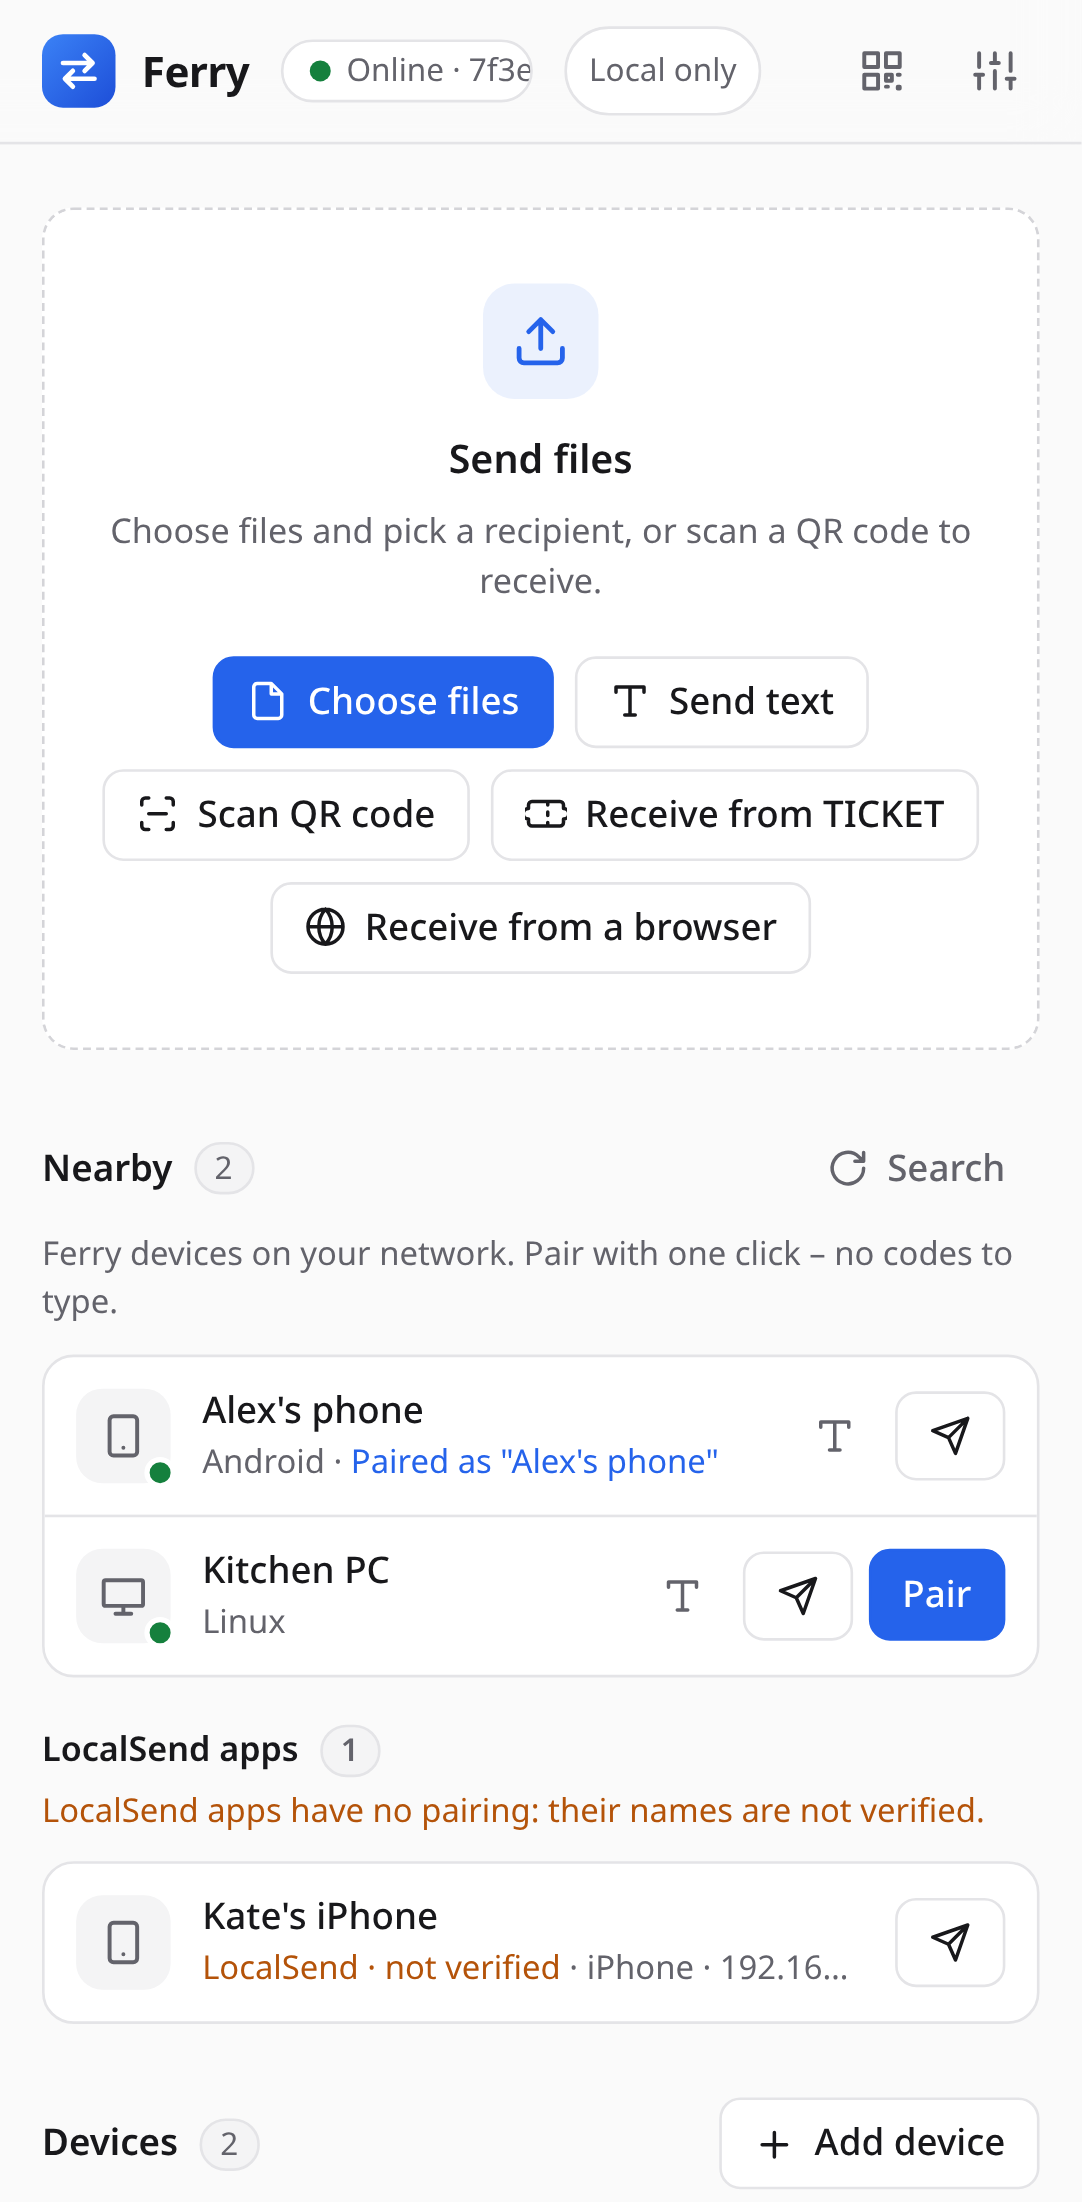
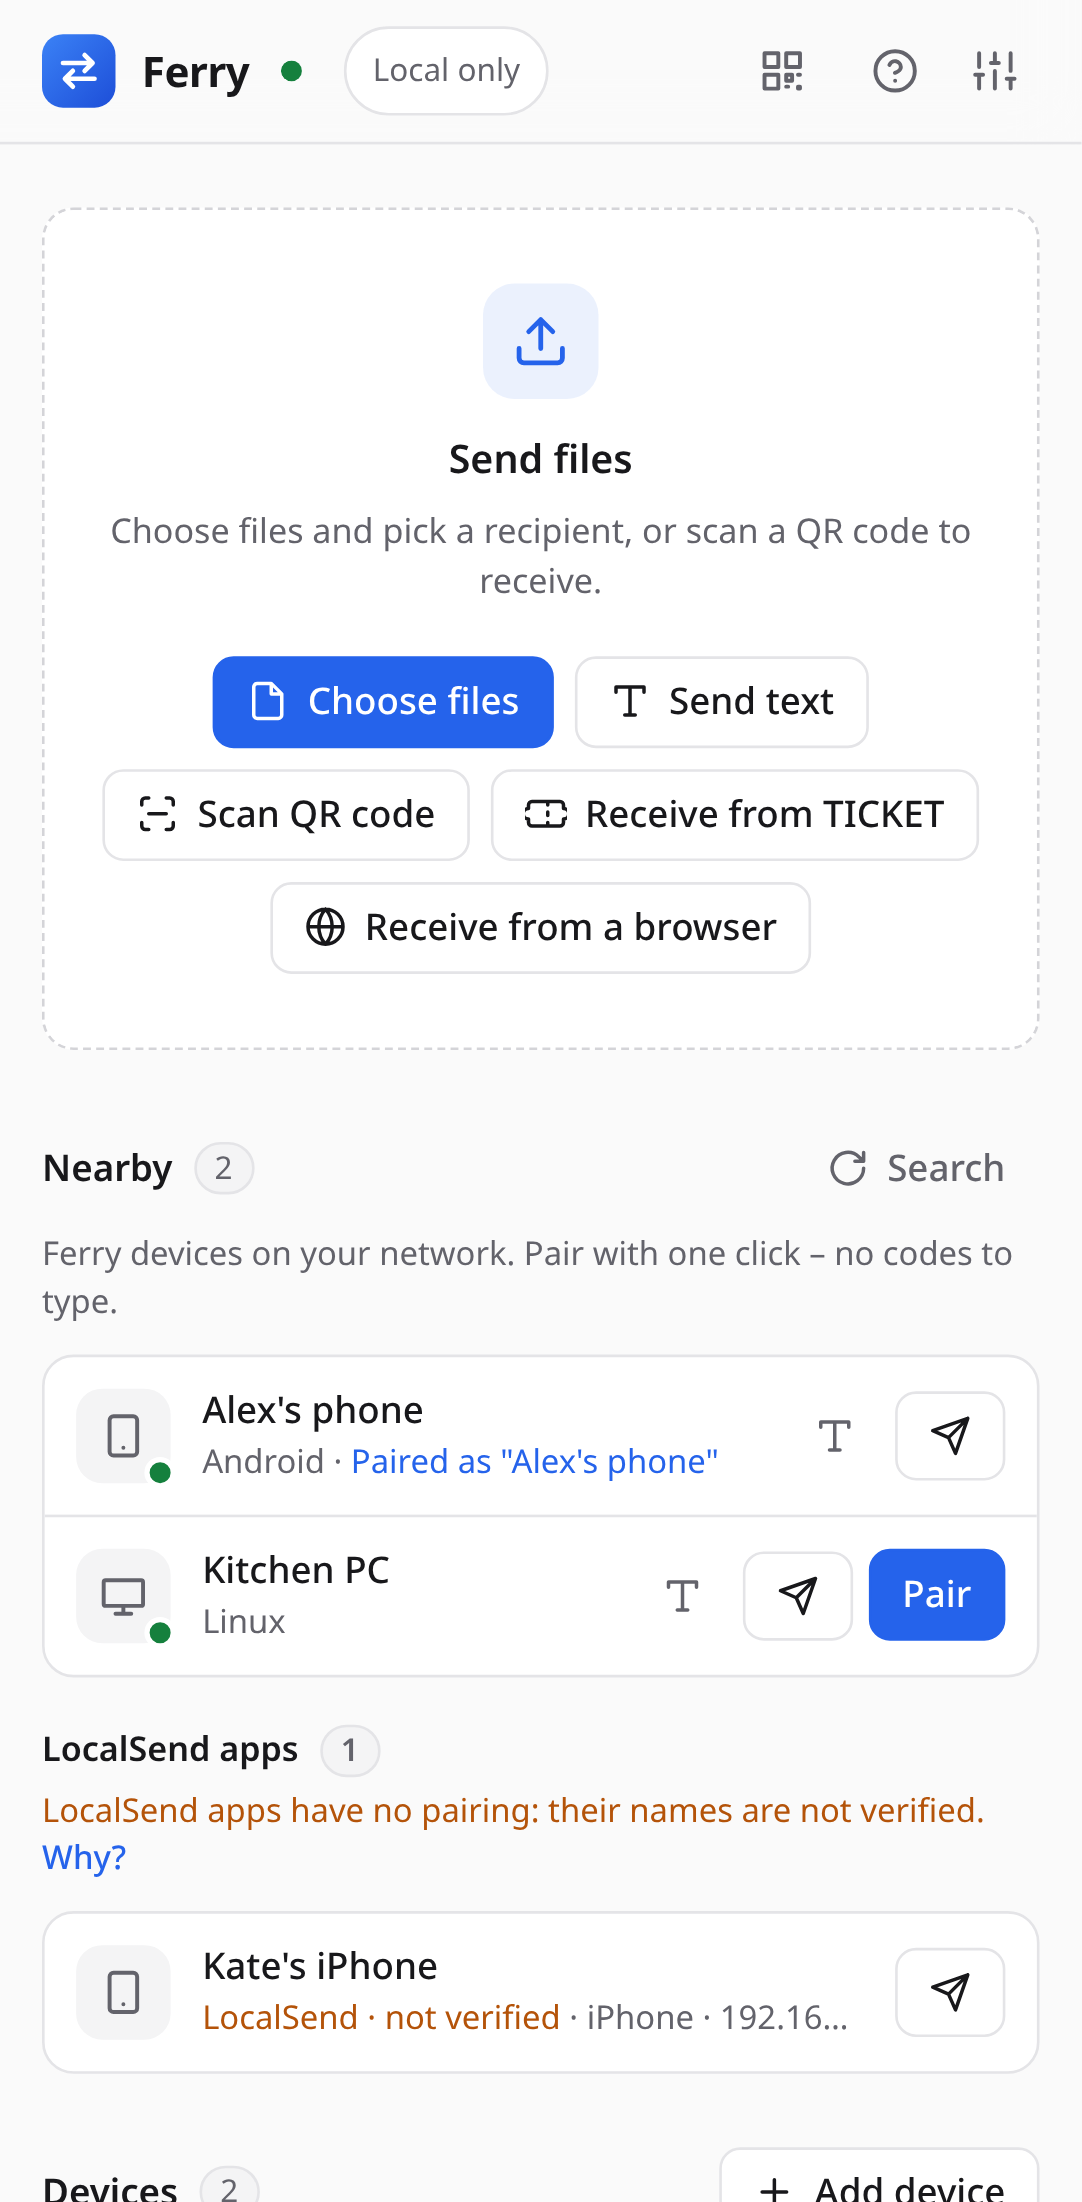
feat(ui): simplify node status display and improve accessibility for mobile

diff --git a/src-tauri/ui/index.html b/src-tauri/ui/index.html
@@ -112,8 +112,7 @@
       <div class="list" id="nearby"></div>
       <div class="subsection" id="nearby-localsend-block" hidden>
         <h3 class="subhead"><span data-i18n="localsend_apps"></span><span class="count" id="localsend-count">0</span></h3>
-        <p class="hint caution" data-i18n="localsend_unverified_short"></p>
-        <button class="link hint-help" data-help="apple" data-i18n="help_why"></button>
+        <p class="hint caution"><span data-i18n="localsend_unverified_short"></span> <button class="link inline" data-help="apple" data-i18n="help_why"></button></p>
         <div class="list" id="nearby-localsend"></div>
       </div>
       <p class="hint warn" id="nearby-hint" hidden></p>
@@ -180,8 +179,7 @@
       <button class="primary" id="btn-send-selected" hidden></button>
       <div class="recipient-group" id="localsend-section" hidden>
         <div class="label" data-i18n="localsend_apps"></div>
-        <p class="compat-warning" data-i18n="localsend_unverified"></p>
-        <button class="link" data-help="apple" data-i18n="help_why"></button>
+        <p class="compat-warning"><span data-i18n="localsend_unverified"></span> <button class="link inline" data-help="apple" data-i18n="help_why"></button></p>
         <div class="recipients" id="localsend-recipients"></div>
         <button class="ghost" id="btn-localsend-scan"><svg class="i sm"><use href="#i-refresh"/></svg><span data-i18n="localsend_search"></span></button>
       </div>
@@ -359,8 +357,7 @@
   <div class="modal">
     <div class="modal-head"><h3 id="pairing-title"></h3></div>
     <div class="modal-body">
-      <p class="muted small" data-i18n="pairing_confirm_hint"></p>
-      <button class="link" data-help="pair" data-i18n="help_why_code"></button>
+      <p class="muted small"><span data-i18n="pairing_confirm_hint"></span> <button class="link inline" data-help="pair" data-i18n="help_why_code"></button></p>
       <div class="pair-code" id="pairing-code"></div>
       <p class="muted small" id="pairing-status" role="status"></p>
       <div class="modal-actions"><button id="btn-pairing-close" data-i18n="close"></button></div>
@@ -373,8 +370,7 @@
     <div class="modal-head"><h3 id="pair-req-title" data-i18n="pair_request"></h3></div>
     <div class="modal-body">
       <p><strong id="pair-req-name"></strong> <span data-i18n="pair_request_text"></span></p>
-      <p class="muted small" data-i18n="pair_request_hint"></p>
-      <button class="link" data-help="pair" data-i18n="help_why_code"></button>
+      <p class="muted small"><span data-i18n="pair_request_hint"></span> <button class="link inline" data-help="pair" data-i18n="help_why_code"></button></p>
       <div class="pair-code" id="pair-req-code"></div>
       <p class="muted small" id="pair-req-queue"></p>
       <div class="modal-actions"><button class="danger" id="btn-pair-reject" data-i18n="reject"></button><button class="primary" id="btn-pair-accept" data-i18n="pair"></button></div>

diff --git a/src-tauri/ui/js/node.js b/src-tauri/ui/js/node.js
@@ -1,5 +1,5 @@
 // This device's node: its status in the top bar and its TICKET.
-import { $, close, fail, open, shortId } from './dom.js';
+import { $, close, fail, open } from './dom.js';
 import { t } from './i18n.js';
 import { state } from './state.js';
 import { copyText, invoke } from './tauri.js';
@@ -7,9 +7,10 @@ import { copyText, invoke } from './tauri.js';
 export function renderNodeStatus() {
   const { nodeInfo, nodeState } = state;
   $('node-dot').className = 'dot ' + (nodeState === 'ok' ? 'ok' : nodeState === 'bad' ? 'bad' : 'wait');
-  $('node-status').textContent = nodeState === 'ok' ? t('node_active', { id: shortId(nodeInfo.node_id) })
-    : nodeState === 'bad' ? t('node_unavailable') : t('node_starting');
-  $('node-pill').title = nodeInfo?.node_id ?? '';
+  const status = nodeState === 'ok' ? t('node_active') : nodeState === 'bad' ? t('node_unavailable') : t('node_starting');
+  $('node-status').textContent = status;
+  // The Node ID is too long for the bar: it is in the tooltip and under "My TICKET".
+  $('node-pill').title = nodeInfo?.node_id ? `${status} · Node ID ${nodeInfo.node_id}` : status;
 }
 
 export async function loadNodeInfo() {

diff --git a/src-tauri/ui/styles.css b/src-tauri/ui/styles.css
@@ -283,5 +283,12 @@ button.link:hover { text-decoration: underline; }
 @media (min-width: 1800px) { .welcome-wrap { max-width: 1440px; } }
 @media (max-width: 560px) { .welcome-wrap { padding: 0 16px; margin-top: 16px; } }
 .welcome-actions { display: flex; gap: 8px; flex-wrap: wrap; }
-.hint-help { margin: -6px 0 10px; font-size: 12.5px; }
+button.link.inline { display: inline; padding: 0; font-size: inherit; vertical-align: baseline; }
 #permissions .welcome { border-left-color: var(--warn); }
+
+/* Narrow screens: the node status shrinks to its dot (the word stays for
+   screen readers), so the top bar is not crowded. */
+@media (max-width: 560px) {
+  #node-pill { padding: 0; border: 0; background: none; min-width: 12px; }
+  #node-status { position: absolute; width: 1px; height: 1px; overflow: hidden; clip: rect(0 0 0 0); white-space: nowrap; }
+}

diff --git a/tests/gui/app.spec.js b/tests/gui/app.spec.js
@@ -637,3 +637,13 @@ test('the desktop never shows the permission card', async ({ app, isMobile }) =>
   await expect(app.locator('#permissions')).toBeHidden();
   expect((await calls(app)).some(([cmd]) => cmd === 'permission_status')).toBe(false);
 });
+
+test('the top bar says only whether the node is online; the Node ID is in the tooltip', async ({ app, isMobile }) => {
+  const pill = app.locator('#node-pill');
+  await expect(app.locator('#node-status')).toHaveText('Online');
+  await expect(pill).toHaveAttribute('title', /Node ID a{64}/);
+  const width = (await pill.boundingBox()).width;
+  // On a phone only the dot is visible; the word stays for screen readers.
+  if (isMobile) expect(width).toBeLessThan(20);
+  else expect(width).toBeGreaterThan(40);
+});

diff --git a/src-tauri/ui/js/locales/pl.js b/src-tauri/ui/js/locales/pl.js
@@ -5,7 +5,7 @@
 const filesPl = (n) => n === 1 ? 'plik' : [2, 3, 4].includes(n % 10) && ![12, 13, 14].includes(n % 100) ? 'pliki' : 'plików';
 
 export default {
-  node_starting: 'Uruchamianie…', node_active: 'Online · {id}', node_unavailable: 'Offline',
+  node_starting: 'Łączenie…', node_active: 'Online', node_unavailable: 'Offline',
   mode_local: 'Tylko lokalnie', mode_relay: 'Lokalnie + własny przekaźnik', mode_internet: 'Lokalnie + internet', mode_hidden: 'ukryte', mode_pending: 'po restarcie',
   mode_hint: 'Tryb sieci i widoczność – kliknij, aby zmienić',
   my_ticket: 'Mój TICKET', settings: 'Ustawienia',

diff --git a/src-tauri/ui/js/locales/en.js b/src-tauri/ui/js/locales/en.js
@@ -2,7 +2,7 @@
 // (checked by scripts/check-frontend.mjs); `{name}` is replaced by t().
 
 export default {
-  node_starting: 'Starting…', node_active: 'Online · {id}', node_unavailable: 'Offline',
+  node_starting: 'Connecting…', node_active: 'Online', node_unavailable: 'Offline',
   mode_local: 'Local only', mode_internet: 'Local + internet', mode_relay: 'Local + own relay', mode_hidden: 'hidden', mode_pending: 'after restart',
   mode_hint: 'Network mode and visibility – click to change',
   my_ticket: 'My TICKET', settings: 'Settings',

diff --git a/CHANGELOG.md b/CHANGELOG.md
@@ -235,6 +235,8 @@ compatibility).
 
 ### Changed
 
+- **A calmer top bar**: the node status says only *Online*, *Connecting…* or *Offline* (the Node
+  ID is in its tooltip and under *My TICKET*), and on phones it shrinks to its coloured dot.
 - **The desktop window uses its width**: from 1100 px on, sending and the transfers are on the
   left and the devices on the right, instead of one narrow column in the middle of a large window.
   Narrow windows and phones keep the single column. The README images show the new layout.
